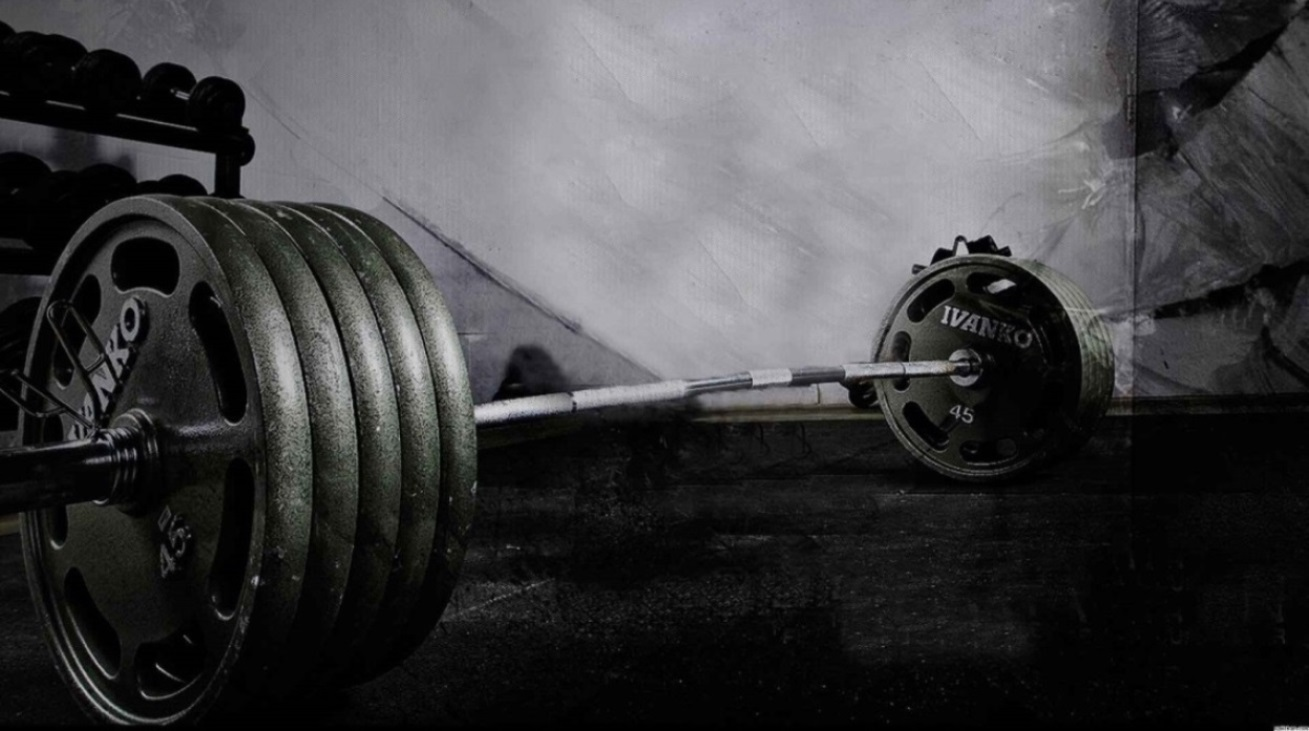
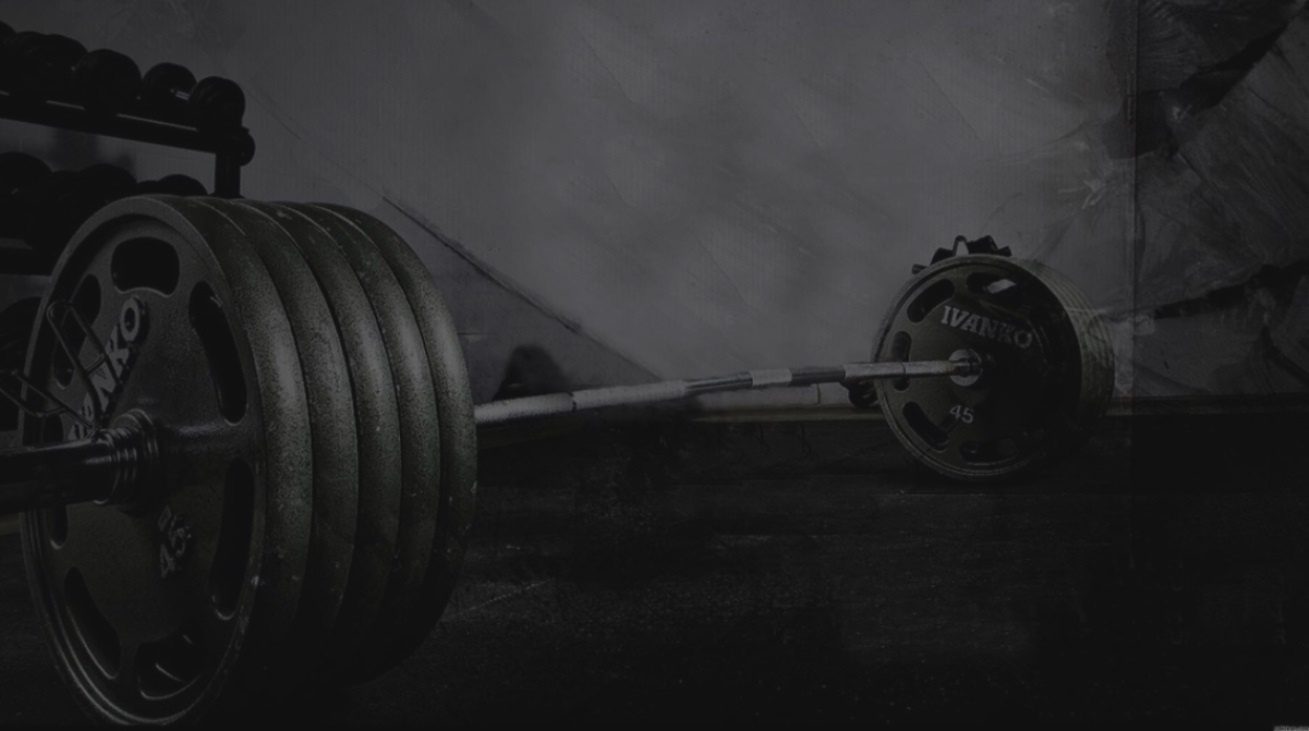
updated JavaScript, made stuff pop better, edited color scheme

diff --git a/index.html b/index.html
@@ -32,7 +32,7 @@
     <![endif]-->
   </head>
 
-  <body>
+  <body data-spy="scroll" data-target=".navbar-collapse" data-offset="100">
 
     <nav class="navbar navbar-inverse navbar-fixed-top">
       <div class="container">
@@ -43,23 +43,26 @@
             <span class="icon-bar"></span>
             <span class="icon-bar"></span>
           </button>
-          <a class="navbar-brand" href="#"><img src="images/textlogo.png" alt="VIS VIRES FITNESS"></a><br>
+          <a class="navbar-brand" href="#jumbotron"><img src="images/textlogo.png" alt="VIS VIRES FITNESS"></a><br>
         </div>
         <div id="navbar" class="collapse navbar-collapse">
           <ul class="nav navbar-nav navbar-right">
             <li><a href="#who">ABOUT ME</a></li>
-            <li><a href="#get-involved">GET INVOLVED</a></li>
+            <li><a href="#clients">CLIENT STORIES</a></li>
+            <li><a href="#gym"> LOCATION </a></li>
+            <li><a href="#hours"> HOURS </a></li>
+            <li><a href="#contact"> CONTACT ME </a></li>
           </ul>
         </div><!--/.nav-collapse -->
       </div>
     </nav>
 
     <!-- Main jumbotron for a primary marketing message or call to action -->
-    <div class="jumbotron">
+    <div id="jumbotron" class="jumbotron">
       <div class="container">
         <h1><h1>The Only Way to get Stronger<br> is to Lift More Weight<br></h1></h1>
-        <p> Working out is like anything else in life in that to get <strong>STRONGER</strong> you must <strong>CHALLENGE</strong> yourself and reach outside of your comfort zone to <strong> IMPROVE </strong>. Whether your goal is to increase the <strong>WEIGHT</strong> on the bar or to just get those last few pounds off before vacation. I'm here to <strong>HELP</strong></p>
-        <p><a class="btn btn-danger btn-lg" href="#" role="button">Learn more &raquo;</a></p>
+        <p> Working out is like anything else in life in that to get <strong>STRONGER</strong> you must <strong>CHALLENGE</strong> yourself and reach outside of your comfort zone to <strong> IMPROVE </strong>. Whether your goal is to increase the <strong>WEIGHT</strong> on the bar or to just get those last few pounds off before vacation, I'll <strong>HELP</strong> you get there</p>
+        <p><a class="btn btn-danger btn-lg" href="#who" role="button">Learn more &raquo;</a></p>
       </div>
     </div>
 
@@ -72,10 +75,10 @@
       </div><em><br></em>
     </div>
 
-    <div id="get-involved">
+    <div id="clients">
       <div class="container homepage">
         <!-- Example row of columns -->
-        <h2> Get Involved </h2>
+        <h2> Client Stories </h2>
         <hr></hr>
         <div class="row">
           <div class="col-md-4">
@@ -116,13 +119,18 @@
         </div>
       </footer>
    
+      <div id="back-to-top">
+        <a href="#jumbotron">
+        <i class="fa fa-3x fa-chevron-circle-up"></i></a>
+      </div>
 
     <!-- Bootstrap core JavaScript
     ================================================== -->
     <!-- Placed at the end of the document so the pages load faster -->
     <script src="https://ajax.googleapis.com/ajax/libs/jquery/1.11.2/jquery.min.js"></script>
     <script src="js/bootstrap.min.js"></script>
+    <script src="js/smoothScroll.js"></script>
     <!-- IE10 viewport hack for Surface/desktop Windows 8 bug -->
-    <script src="../../assets/js/ie10-viewport-bug-workaround.js"></script>
+   <!-- <script src="../../assets/js/ie10-viewport-bug-workaround.js"></script>-->
   </body>
 </html>

diff --git a/js/smoothScroll.js b/js/smoothScroll.js
@@ -1,0 +1,62 @@
+$(".navbar-collapse ul li a[href^='#']").on('click', function(e) {
+   
+   // prevent default anchor click behavior
+   e.preventDefault();
+   
+   // store hash
+   var hash = this.hash;
+   
+   // animate
+   $('html, body').animate({
+       scrollTop: $(this.hash).offset().top -75
+     }, 300, function(){
+       // when done, add hash to url
+       // (default click behaviour)
+       window.location.hash = hash;
+     });
+});
+
+$("a.navbar-brand[href^='#']").on('click', function(e) {
+   // prevent default anchor click behavior
+   e.preventDefault();
+   // store hash
+   var hash = this.hash;
+   // animate
+   $('html, body').animate({
+       scrollTop: $(this.hash).offset().top -75
+     }, 300, function(){
+       // when done, add hash to url
+       // (default click behaviour)
+       window.location.hash = hash;
+     });
+});
+
+$("a.btn-danger[href^='#']").on('click', function(e) {
+   // prevent default anchor click behavior
+   e.preventDefault();
+   // store hash
+   var hash = this.hash;
+   // animate
+   $('html, body').animate({
+       scrollTop: $(this.hash).offset().top -75
+     }, 300, function(){
+       // when done, add hash to url
+       // (default click behaviour)
+       window.location.hash = hash;
+     });
+});
+
+$("#back-to-top a[href^='#']").on('click', function(e) {
+   // prevent default anchor click behavior
+   e.preventDefault();
+   // store hash
+   var hash = this.hash;
+   // animate
+   $('html, body').animate({
+       scrollTop: $(this.hash).offset().top
+     }, 300, function(){
+       // when done, add hash to url
+       // (default click behaviour)
+       window.location.hash = hash;
+     });
+});

diff --git a/css/custom.css b/css/custom.css
@@ -13,9 +13,19 @@ ul.nav, .jumbotron h1  {
 }
 
 #get-involved{
-	background-color: #f5f5f5;
-
+	background-color: #ff0000;
 }
+
+#back-to-top{
+	position: fixed;
+	right: 20px;
+	bottom: 20px;
+}
+
+#back-to-top a{
+	color: #333;
+}
+
 .jumbotron{
 	text-align: center;
 	background-image: url("../images/barbell_stock.jpg");
@@ -45,6 +55,7 @@ footer {
 
 .btn-lg{
 	font-size:36px;
+	background-color: #ff0000;
 }
 
 .homepage{
@@ -56,7 +67,7 @@ footer {
 .homepage h3, .homepage h2{
 	text-transform: uppercase;
 	font-family: 'Arvo', courier, serif;
-	color: #e74c3c;
+	color: #ff0000;
 }
 
 .homepage h2{	
@@ -73,7 +84,7 @@ footer {
 }
 
 .homepage a{
-	color: #e74c3c;
+	color: #ff0000;
 }
 
 .homepage a:hover{
@@ -128,3 +139,4 @@ footer {
     width: 80%;
   }
 }
+
